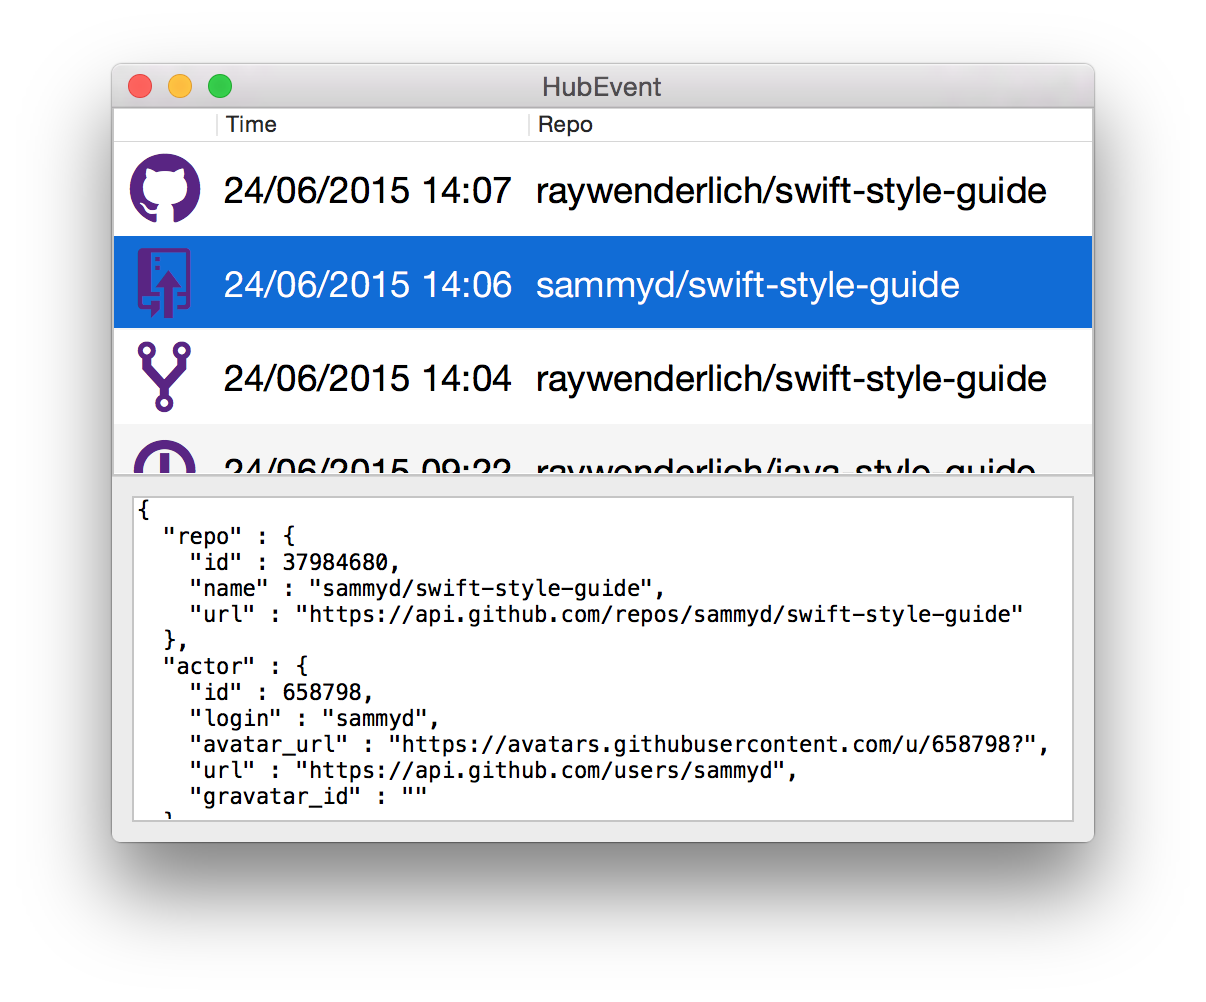
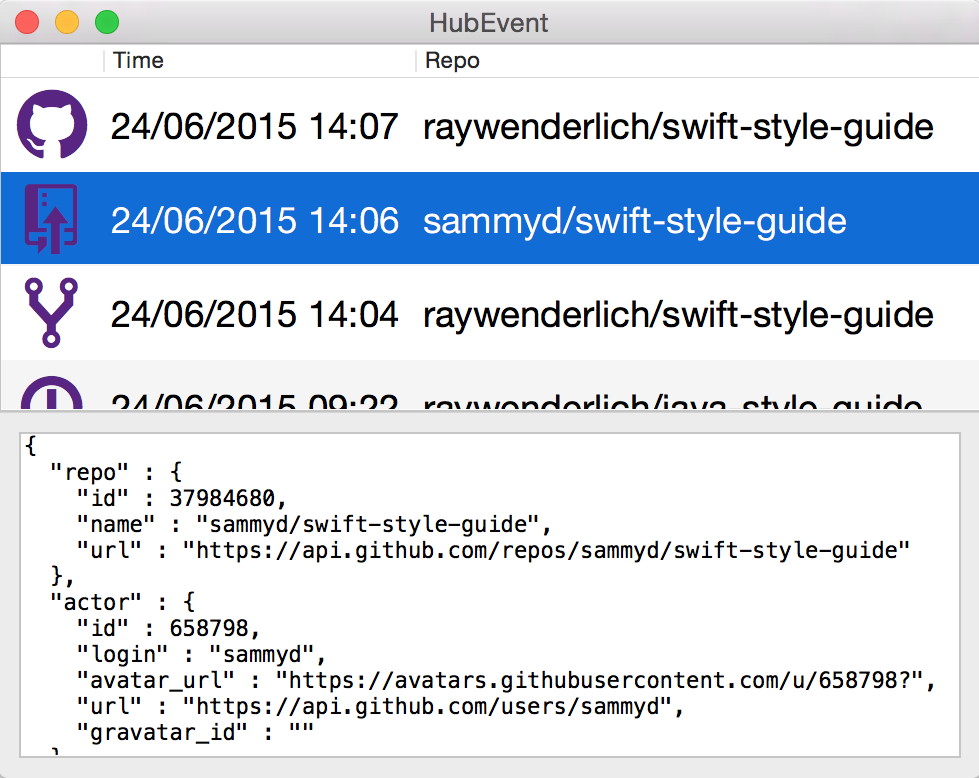
Remove the shadow on all the images

diff --git a/00_geting_started/getting_started.html b/00_geting_started/getting_started.html
@@ -1,0 +1,355 @@
+
+<h1>Introduction to developing for OS X: Getting Started</h1>
+
+<h2>Introduction</h2>
+
+OS X is one of the world’s most advanced desktop operating systems, and is home to some of the best crafted software products. For developers it offers an extremely powerful and versatile framework upon which they can build amazing software products.
+
+Apple makes developing for OS X incredibly easy - providing an excellent development environment in Xcode, and a complete distribution channel in the Mac App Store.
+
+This tutorial is the first of a series of three tutorials covering an introduction to developing for OS X. In this instalment you'll first learn about how to obtain the tools you need to develop for OS X. Then, using an app you've downloaded as an example, you'll take a tour of Xcode, discovering how to run an app, edit code, design the UI and debug it.
+
+By the end of this tutorial you will have your computer set up to develop OS X apps, and you'll be familiar with Xcode. In part two of this series you'll learn about the anatomy of an OS X app, before finally creating your first app in part three.
+
+So what are you waiting for? The world of desktop apps awaits!
+
+<h2>Prerequisites</h2>
+
+To become an expert OS X developer, you will need a few things:
+
+<ul>
+<li>
+<em>Mac running OS X</em> The OS X operating system only runs on Apple computers, so you need a Mac both to develop and run OS X apps.
+</li>
+
+<li>
+<em>An AppleID</em> In order to download the tools from the App Store, you'll need an AppleID.
+</li>
+
+<li>
+<em>Xcode</em> This is the IDE and toolchain used to create OS X apps. You'll learn how to install this in the next section.
+</li>
+</ul>
+
+Once you've built your app, and you want to upload it to the App Store to be distributed, you'll also need to pay for an Apple developer account. But this is not a requirement until you are ready to send your app out to the world.
+
+<h2>Obtaining Tools</h2>
+
+Unlike some other platforms, developing for OS X requires the installation of one tool - known as Xcode. Xcode is an IDE that includes everything you need to develop iOS, watchOS and OS X apps.
+
+You can download the currently released stable version of Xcode from the Mac App Store:
+
+
+<img src="img/xcode_mas.png" alt="Optional("Download Xcode")" title="nil" />
+
+
+Once it has downloaded and installed, you can go ahead an open it. The first time you open Xcode it'll ask to install some additional components. Go ahead and let it, entering your password if required.
+
+You'll then be presented with the Xcode welcome screen:
+
+
+<img src="img/xcode_welcome.png" alt="Optional("Xcode Welcome screen")" title="nil" />
+
+
+Congratulations, you've successfully installed Xcode! Read on to learn all about what it can do.
+
+<h3>Beta versions of Xcode</h3>
+
+Before moving on to describing the power of Xcode, it's worth taking a few minutes learning about beta versions of Xcode. When Apple releases new updates to Xcode (often to support new features in OS X, iOS and watchOS) they go through an agressive cycle of beta releases. These releases include the new features, but consequently many bugs. If you are interested in developing an app which leverages these new features, you'll need to download the latest beta from Apple.
+
+Apple releases betas of its developer software at <a href="https://developer.apple.com/">developer.apple.com</a>. You can install a beta version of Xcode alongside the stable version, so there's no problem with continuing work on projects that aren't ready for upgrade.
+
+
+<img src="img/xcode_download_beta.png" alt="Optional("Download Xcode Beta")" title="nil" />
+
+
+The download is a DMG, so you can install by dragging the Xcode app across into <em>Applications</em> in the usual way. You'll then have two versions of Xcode available in Launchpad:
+
+
+<img src="img/double_xcode.png" alt="Optional("Double Xcode")" title="nil" />
+
+
+<div class="note">
+<em>Note:</em> At the time of writing Xcode 7 is still in beta. The sample project used in this tutorial has been upgraded to use the Swift 2.0 programming language, and therefore requires Xcode 7. If you wish to follow along you will need to download a beta of Xcode 7, as described in this section.
+</div>
+
+<h2>Xcode</h2>
+
+Xcode is an Integrated Development Environment (IDE) which means that it is a collection of all the tools you need, from source code editing, compilation through to debugging and UI design.
+
+When you open Xcode it allows you to create a new project, or open an existing one. You can also open an existing project by double clicking on an Xcode project or workspace in Finder:
+
+
+<img src="img/open_finder.png" alt="Optional("Open from Finder")" title="nil" />
+
+
+Download the <em>HubEvent</em> sample project, unzip it and <em>double click</em> on <em>HubEvent.xcodeproj</em> in Finder to open it in Xcode.
+
+<h3>Creating a new app</h3>
+
+In this tutorial you'll tour Xcode via a sample app, but when you want to create you own projects you can select <em>Create a new Xcode project</em> from the Xcode welcome screen:
+
+
+<img src="img/xcode_welcome.png" alt="Optional("Xcode Welcome")" title="nil" />
+
+
+The template chooser allows you to decide how Xcode will configure your new project. In the <em>OS X </em><em>\</em><em> Application</em> section you can see the three different core OS X app types:
+
+
+<img src="img/new_project.png" alt="Optional("New Xcode Project")" title="nil" />
+
+
+The three different app types are as follows:
+
+<ul>
+<li>
+<em>Cocoa Application</em> An OS X desktop app - with a window-based UI. Cocoa is the name of the framework upon which all OS X applications are built.
+</li>
+
+<li>
+<em>Game</em> Games built using Apple's SpriteKit or SceneKit frameworks.
+</li>
+
+<li>
+<em>Command Line Tool</em> A utility that runs in a shell, and has a text-based UI.
+</li>
+</ul>
+
+There are many other project types you can create, but these cover the most popular. You can explore the other templates in the template chooser.
+
+<h3>Running your app</h3>
+
+Whether you've opened an existing app or created a new one, the most important thing you'll want to do is to build and run it.
+
+This involves compiling all of the code you've written into machine code, bundling up the resources required by the app and then executing it. This process is complex, but luckily Xcode has your back. To build and run your project simply press the <em>play</em> button on the toolbar:
+
+
+<img src="img/play_button.png" alt="Optional("Play button")" title="nil" />
+
+
+You can also build and run your app with the <em>⌘R</em> keyboard shortcut. Do this with the <em>HubEvent</em> sample project and you'll see it compile and then launch:
+
+
+<img src="img/hubevent.png" alt="Optional("HubEvent")" title="nil" />
+
+
+HubEvent uses the public GitHub API to pull down all the events for a user, and displays a summary of them in a table. As you select each row of the table, the raw JSON associated with that event is displayed in the panel below.
+
+Now that you've seen how to get an app to run, you're probably desperate to find out how it works. That's coming up next!
+
+<h3>Code Editor</h3>
+
+Apps are built primarily from code, written in the Swift programming language. You can also use Objective-C to write apps for OS X, but Apple introduced Swift in 2014, and was very clear that it is the langauge of the future. <em>HubEvent</em> is written in Swift.
+
+One of the views available in Xcode is the <em>Code Editor</em>, which is activated whenever you open a source code file. To see it, select <em>WindowController.swift</em> from the <em>Controllers</em> group in the <em>Project navigator</em>.
+
+
+<img src="img/source_editor.png" alt="Optional("Code Editor")" title="nil" />
+
+
+<div class="note">
+<em>Note:</em> You might need to show the <em>Navigator pane</em> on the left hand side using the buttons in the toolbar, and choose the <em>Project navigator</em> within the navigator pane. The buttons are shown the above screenshot.
+</div>
+
+In the main section of the Xcode window, you can now see the source code associated with the Window Controller. Find the following line:
+
+<pre lang="swift">
+// The shared data model
+let sharedDataStore = DataStore(username: "rwenderlich", type: .Network)
+</pre>
+
+This line is selecting the source of the GitHub event data - here choosing Ray's username (<code>rwenderlich</code>).
+
+Try changing <code>rwenderlich</code> to a different GitHub username - for example <code>sammyd</code>. Then, build and run your app as you did before. You'll see the new user's events listed in the app:
+
+
+<img src="img/hubevent_sammyd.png" alt="Optional("HubEvent sammyd")" title="nil" />
+
+
+Well done! You've changed your first code in an OS X app!
+
+The code editor includes many powerful features to assist you as your write code, including autocompletion and QuickLook documentation.
+
+<h3>Interface Builder</h3>
+
+Although it is possible to build the user interface of an OS X app entirely in code, since UI is inherently visual, proceeding in this manner isn't very intuitive.
+
+Xcode includes a tool called Interface Builder (IB), which is a fully-featured visual design tool that allows you to build your UI from reusable components.
+
+The files which make up these visual interfaces are called Storyboards - a name inspired by the film industry. In the same way that a storyboard is used to depict scenes in a film, and the progression through it, a storyboard in an app depicts the scenes and the flow between them.
+
+To see a storyboard in Interface Builder, select <em>Main.storyboard</em> in the <em>Project navigator</em>:
+
+
+<img src="img/storyboard.png" alt="Optional("Storyboard")" title="nil" />
+
+
+This storyboard includes the layout for the entire app. You can see how the table at the top of the app is split out as a separate entity from the JSON viewer at the bottom.
+
+To get a really quick feel for interface builder, you're going to change the color of the icon in the left hand column.
+
+Although being zoomed out allows you to get a good view of the entire storyboard, you can't edit a zoomed out storyboard. Zoom in to the <em>EventList VC</em> scene using __⌘+__. This is the scene that contains the table:
+
+
+<img src="img/eventlist.png" alt="Optional("EventList VC")" title="nil" />
+
+
+Use the button in the bottom left corner to <em>Show Document Outline</em>. This is a panel along the left hand side of Interface Builder which shows you the hierarchy of components that make up the current scene.
+
+
+<img src="img/select_icon.png" alt="Optional("Document Outline")" title="nil" />
+
+
+If you click on the purple <em>⌘</em> symbol in the table view, you'll highlight the corresponding <em>Table Cell View</em> row in the <em>Document Outline</em>. Since you want to access the text field <i>inside</i> this cell, click on the <em>⌘</em> again. Now you'll have the row selected as in the previous image.
+
+Once you've selected this text field, you can configure various attributes associated with it, which determine its appearance.
+
+If the <em>Utilities</em> panel is not visible down the right hand side of Xcode, use the button in the toolbar to show it:
+
+
+<img src="img/utilities_icon.png" alt="Optional("Utilities Icon")" title="nil" />
+
+
+This panel can display many different inspectors, but the one you want now is the <em>Atrributes Inspector</em>. Select it now and you'll find the <em>Text Color</em> attribute:
+
+
+<img src="img/attributes_inspector.png" alt="Optional("Attributes Inspector")" title="nil" />
+
+
+Tap on the purple color bar, and you'll see a colors panel. Use this to select a different color - e.g. yellow:
+
+
+<img src="img/color_panel.png" alt="Optional("Color Panel")" title="nil" />
+
+
+Now you can build and run <em>HubEvent</em> again to see the effect your change has had:
+
+
+<img src="img/hubevent_yellow.png" alt="Optional("Color Change")" title="nil" />
+
+
+<h3>Asset Catalog</h3>
+
+In addition to code and user interfaces, your app will also need some assets such as artwork. Due to the different screen types (e.g. retina and non-retina), you often need to provide multiple versions of each asset. To simplify this process, Xcode uses <em>Asset Libraries</em> to store and organize the assets that accompany the app.
+
+<em>HubEvent</em> already has the default asset library, called <em>Images.xcassets</em>. Select it in the <em>Project navigator</em> to reveal its content:
+
+
+<img src="img/asset_library.png" alt="Optional("Asset Library")" title="nil" />
+
+
+When you create a new app, the template includes an asset library, with just one entry - the app logo. This is exactly the state of the asset library in <em>HubEvent</em>. You can see the different asset types you can create by right clicking in the left pane of the library:
+
+
+<img src="img/asset_types.png" alt="Optional("Asset types")" title="nil" />
+
+
+Currently the app icon for <em>HubEvent</em> is the default OS X icon:
+
+
+<img src="img/original_icon.png" alt="Optional("Original Icon")" title="nil" />
+
+
+Since the app icon is provided by the asset catalog, you're going to replace it with something more appropriate. Click on the <em>AppIcon</em> asset:
+
+
+<img src="img/appicon.png" alt="Optional("App Icon")" title="nil" />
+
+
+When you provide an app icon for an app, you have to provide it in many different sizes and densities for use around the system. As a demonstration, you're going to add one of these sizes to see the app icon change.
+
+Use Finder to locate <em>rw</em><em>_</em><em>icon.png</em> in the unzipped directory you downloaded. Then drag this from Finder into the <em>Mac 512pt 2x</em> cell in the <em>AppIcon</em> asset:
+
+
+<img src="img/appicon_updated.png" alt="Optional("App Icon")" title="nil" />
+
+
+<div class="note">
+<em>Note:</em> Providing a single image in this manner is not generally appropriate. In a real application you should provide all ten versions of the icon.
+</div>
+
+Now build and run the app again and you'll see the updated icon in the dock:
+
+
+<img src="img/new_icon.png" alt="Optional("New Icon")" title="nil" />
+
+
+<h3>Debugging</h3>
+
+Nobody is capable of writing code that works perfectly every time, and therefore you're likely to spend time trying to fix problems in your code. You'll soon find that it'd be really helpful to be able to stop your app at a particular line of code and investigate the values of variables. This is precisely the functionality provided by a debugger.
+
+Once again, Xcode is here to help. It has an integrated debugger that makes runtime investigation of your code really easy. To demonstrate some of its functionality, you're going to use it.
+
+Open <em>CodeStringFormattingTransformer.swift</em> by selecting it in the <em>Project navigator</em>. Find the following line in the code:
+
+<pre lang="swift">
+return NSAttributedString(string: unescaped, attributes: attributes)
+</pre>
+
+<em>Click</em> in the gutter to the left of this line to insert a <em>breakpoint</em>:
+
+
+<img src="img/breakpoint.png" alt="Optional("breakpoint")" title="nil" />
+
+
+A breakpoint marks the line in your code at which point execution will stop. Your app will pause at this point to allow you to investigate the state.
+
+<em>Build and run</em> the app. You'll see the app start, before Xcode comes back to the foreground. You'll see the line you added the breakpoint to highlighted:
+
+
+<img src="img/highlighted_line.png" alt="Optional("Highlighted Line")" title="nil" />
+
+
+This means that your app has started running, and then reached this line of code. It has paused here to allow you to investigate.
+
+The bottom pane in Xcode shows you the state of the variables at the current point of execution, including their variables.
+
+
+<img src="img/debug_pane.png" alt="Optional("Debug Pane")" title="nil" />
+
+
+This particular method is removing escaped characters from the JSON downloaded from the GitHub API. You can see the input string <code>s</code> and the resultant string <code>unescaped</code>.
+
+You can progress to the next line of execution with the <em>stepover</em> button:
+
+
+<img src="img/stepover.png" alt="Optional("Stepover")" title="nil" />
+
+
+Or to continue the program execution, use the <em>continue</em> button:
+
+
+<img src="img/continue.png" alt="Optional("Continue")" title="nil" />
+
+
+Note that continuing will then run the program until it comes across another breakpoint.
+
+To remove a breakpoint, you can drag it out of the gutter until the pointer changes to a <em>x</em>.
+
+This gives you a really brief introduction to the debugger in Xcode. There is loads of powerful functionality for you to discover.
+
+<h3>Documentation</h3>
+
+Xcode has a couple of integrated ways to get access to documentation for system frameworks. The first is the ability to show a tooltip containing the most salient information about a class or method.
+
+
+<img src="img/tooltip.png" alt="Optional("Tooltip")" title="nil" />
+
+
+To access this, simply <em>Option-Click</em> on a class or method name within the code editor.
+
+The second method of accessing documentation shows you the full documentation in a dedicated browser. To access this you can either click on the <em>Reference</em> link at the bottom of the tooltip, or use the <em>Window </em><em>\</em><em> Documentation and Reference</em> menu:
+
+
+<img src="img/doc_browser.png" alt="Optional("Documentation Browser")" title="nil" />
+
+
+<h2>Where to go from here?</h2>
+
+You can download <em>HubEvent</em>, the sample project which accompanies this tutorial here.
+
+If you're completely new to OS X programming, then this tutorial has covered a lot of ground. However, you'll be forgiven for thinking that you still don't really know where to start with creating your own app. In the next article you'll learn about the anatomy of an app, before then moving on to creating your first OS X app.
+
+Apple has a huge amount of documentation for OS X - all available on the <a href="https://developer.apple.com/library/mac/navigation/">Developer Portal</a>.
+
+If you have any questions or comments then please join in below or on the forums.

diff --git a/01_anatomy/osx_anatomy.md b/01_anatomy/osx_anatomy.md
@@ -1,14 +1,16 @@
 # Introduction to developing for OS X: Anatomy of an OS X App
 
 ## Introduction
-- Summary of why from last article
-- Outline of what you'll learn
+
+In the previous article you discovered how to install Xcode, before running through a brief tour of its major features. In this tutorial you'll turn your attention to OS X apps themselves - specifically how they are architected.
+
+By the end of this article you'll have a good grounding in how the different parts of an OS X app fit together, although not necessarily a wide-ranging understanding of how each of them works.
+
+
 
 ## Prerequisites
-- Mac
-- OS X
-- Xcode
-- Link back to previous article about tooling
+
+To build apps for OS X, you need a computer running OS X, which means an Apple Mac. You'll also need Xcode installed - if you haven't done this yet, you should take a look at the previous tutorial to learn how to get set up.
 
 ## How does an app start?
 - Storyboard entry point
@@ -63,6 +65,3 @@
 ## Where to go from here?
 - Next article will introduce UI concepts
 - Links to Apple documentation
-
-
-
